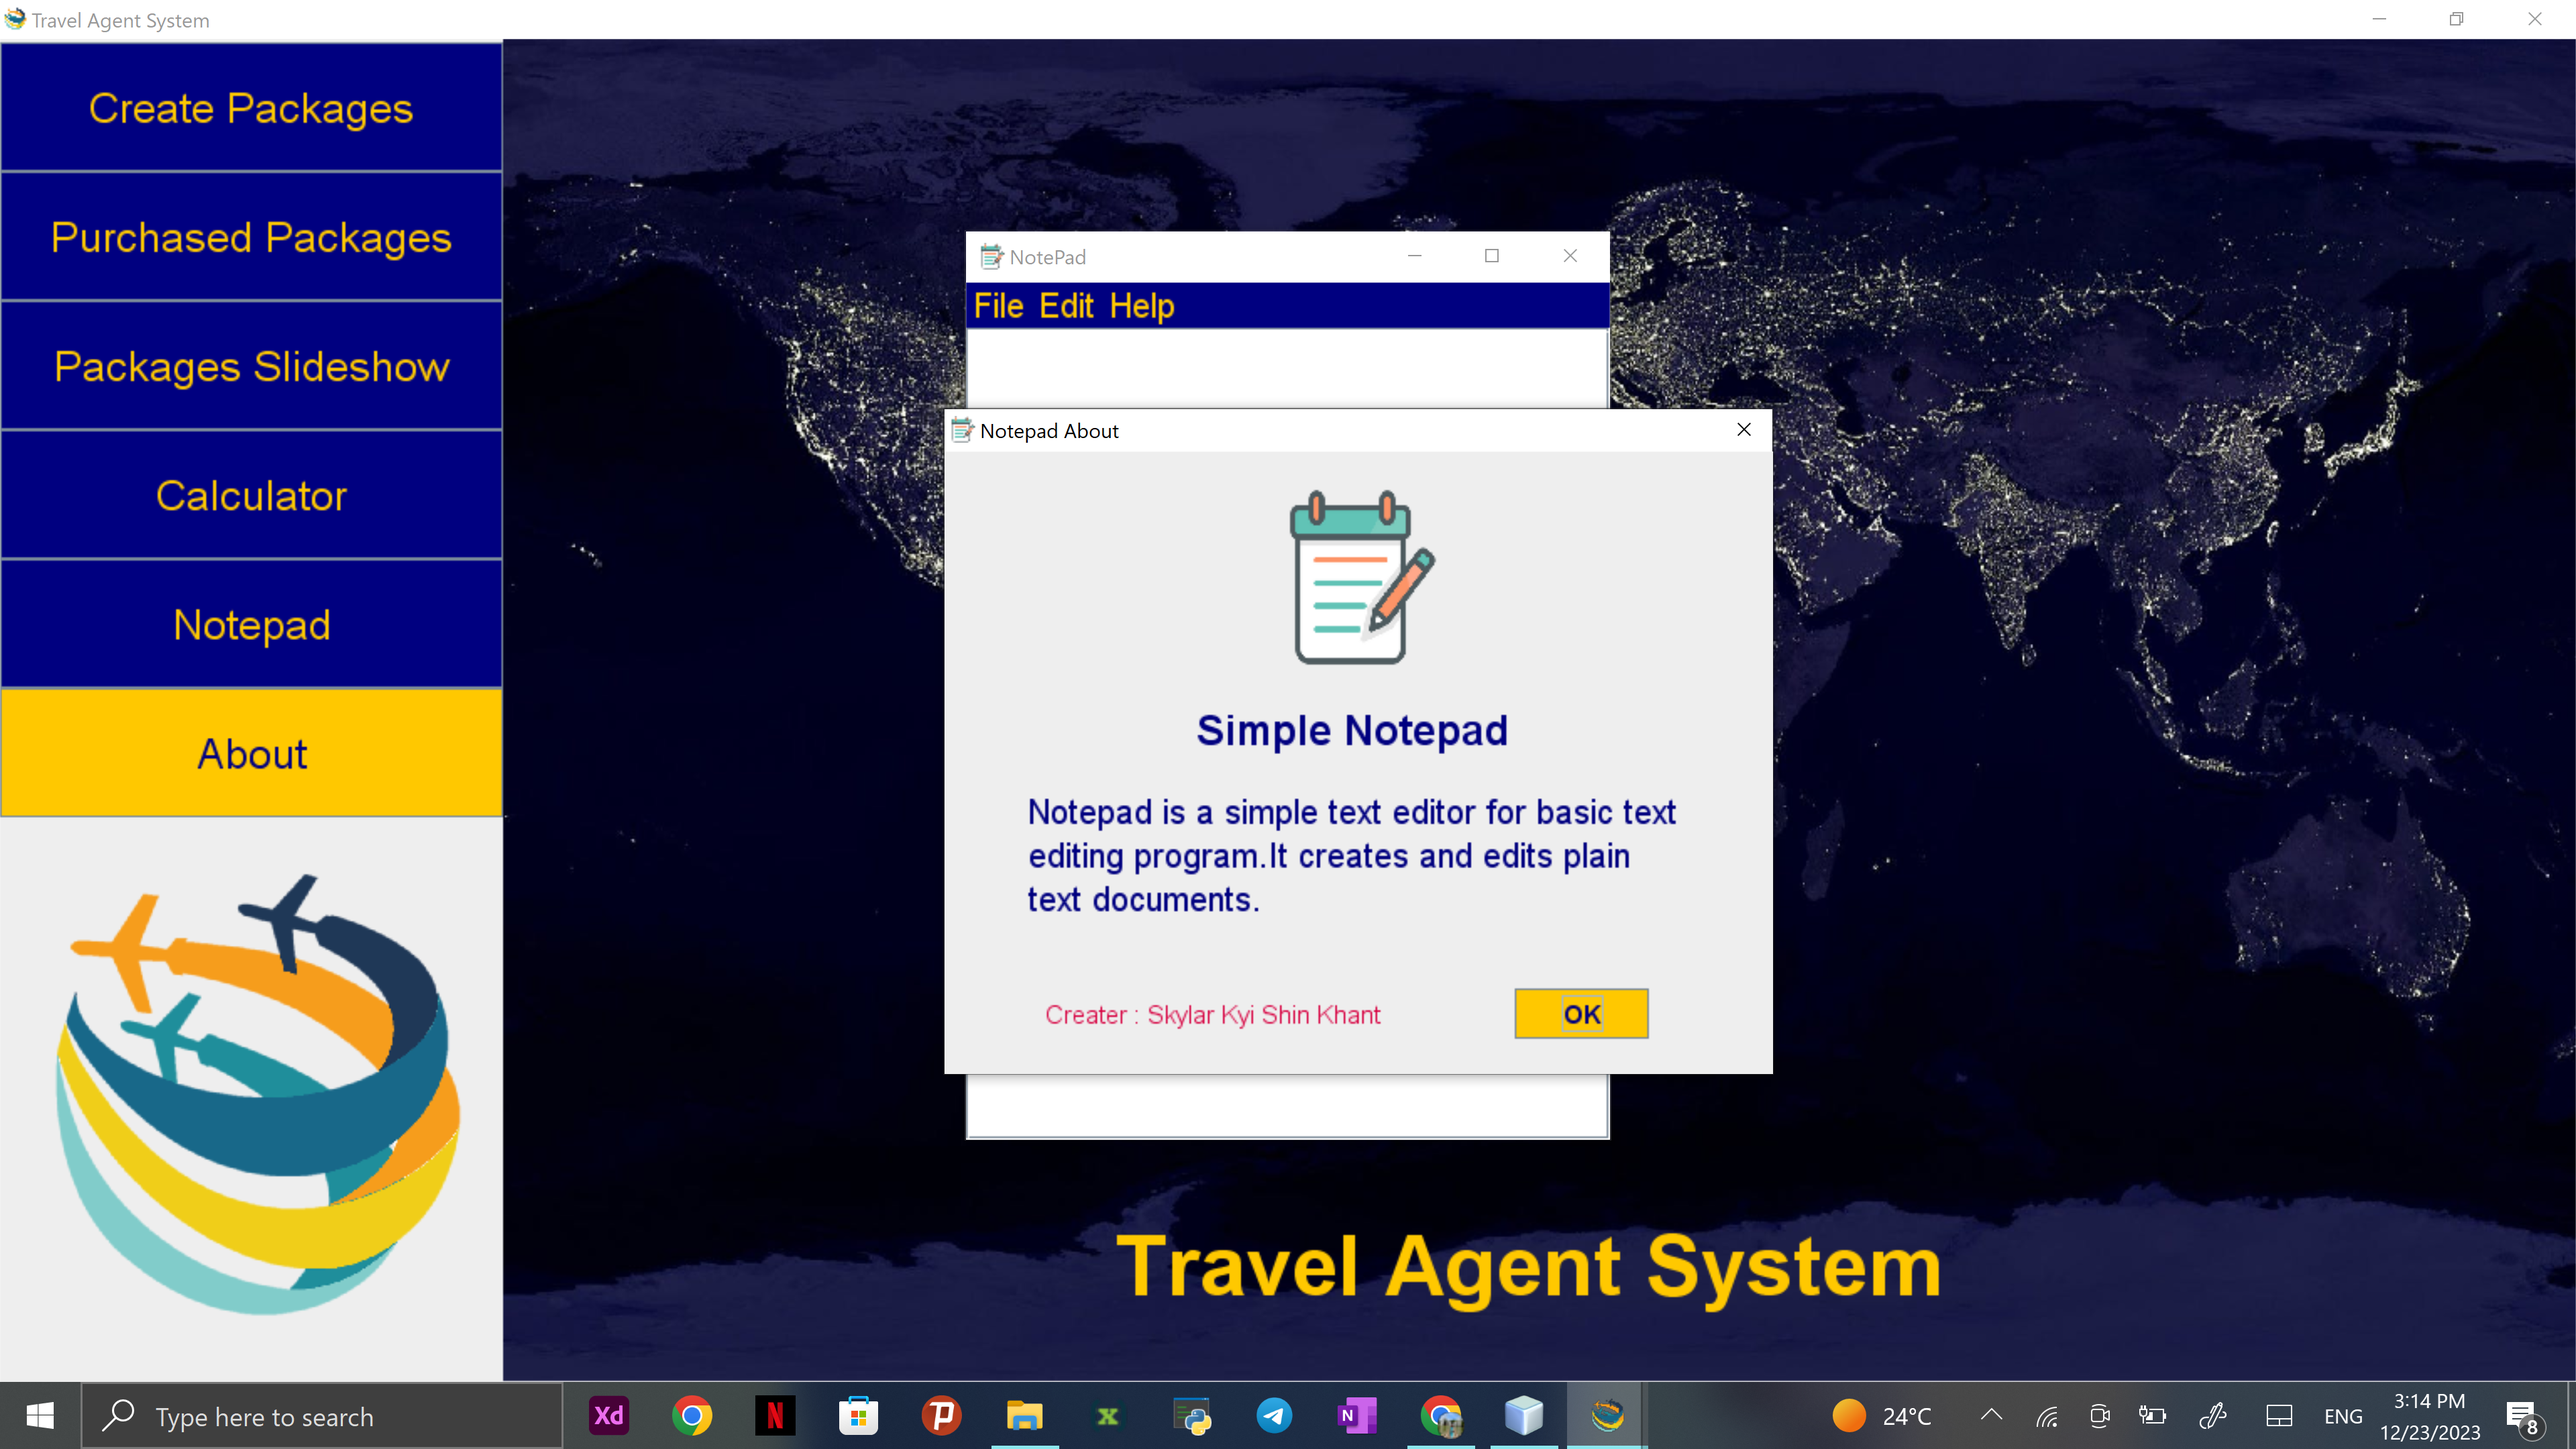
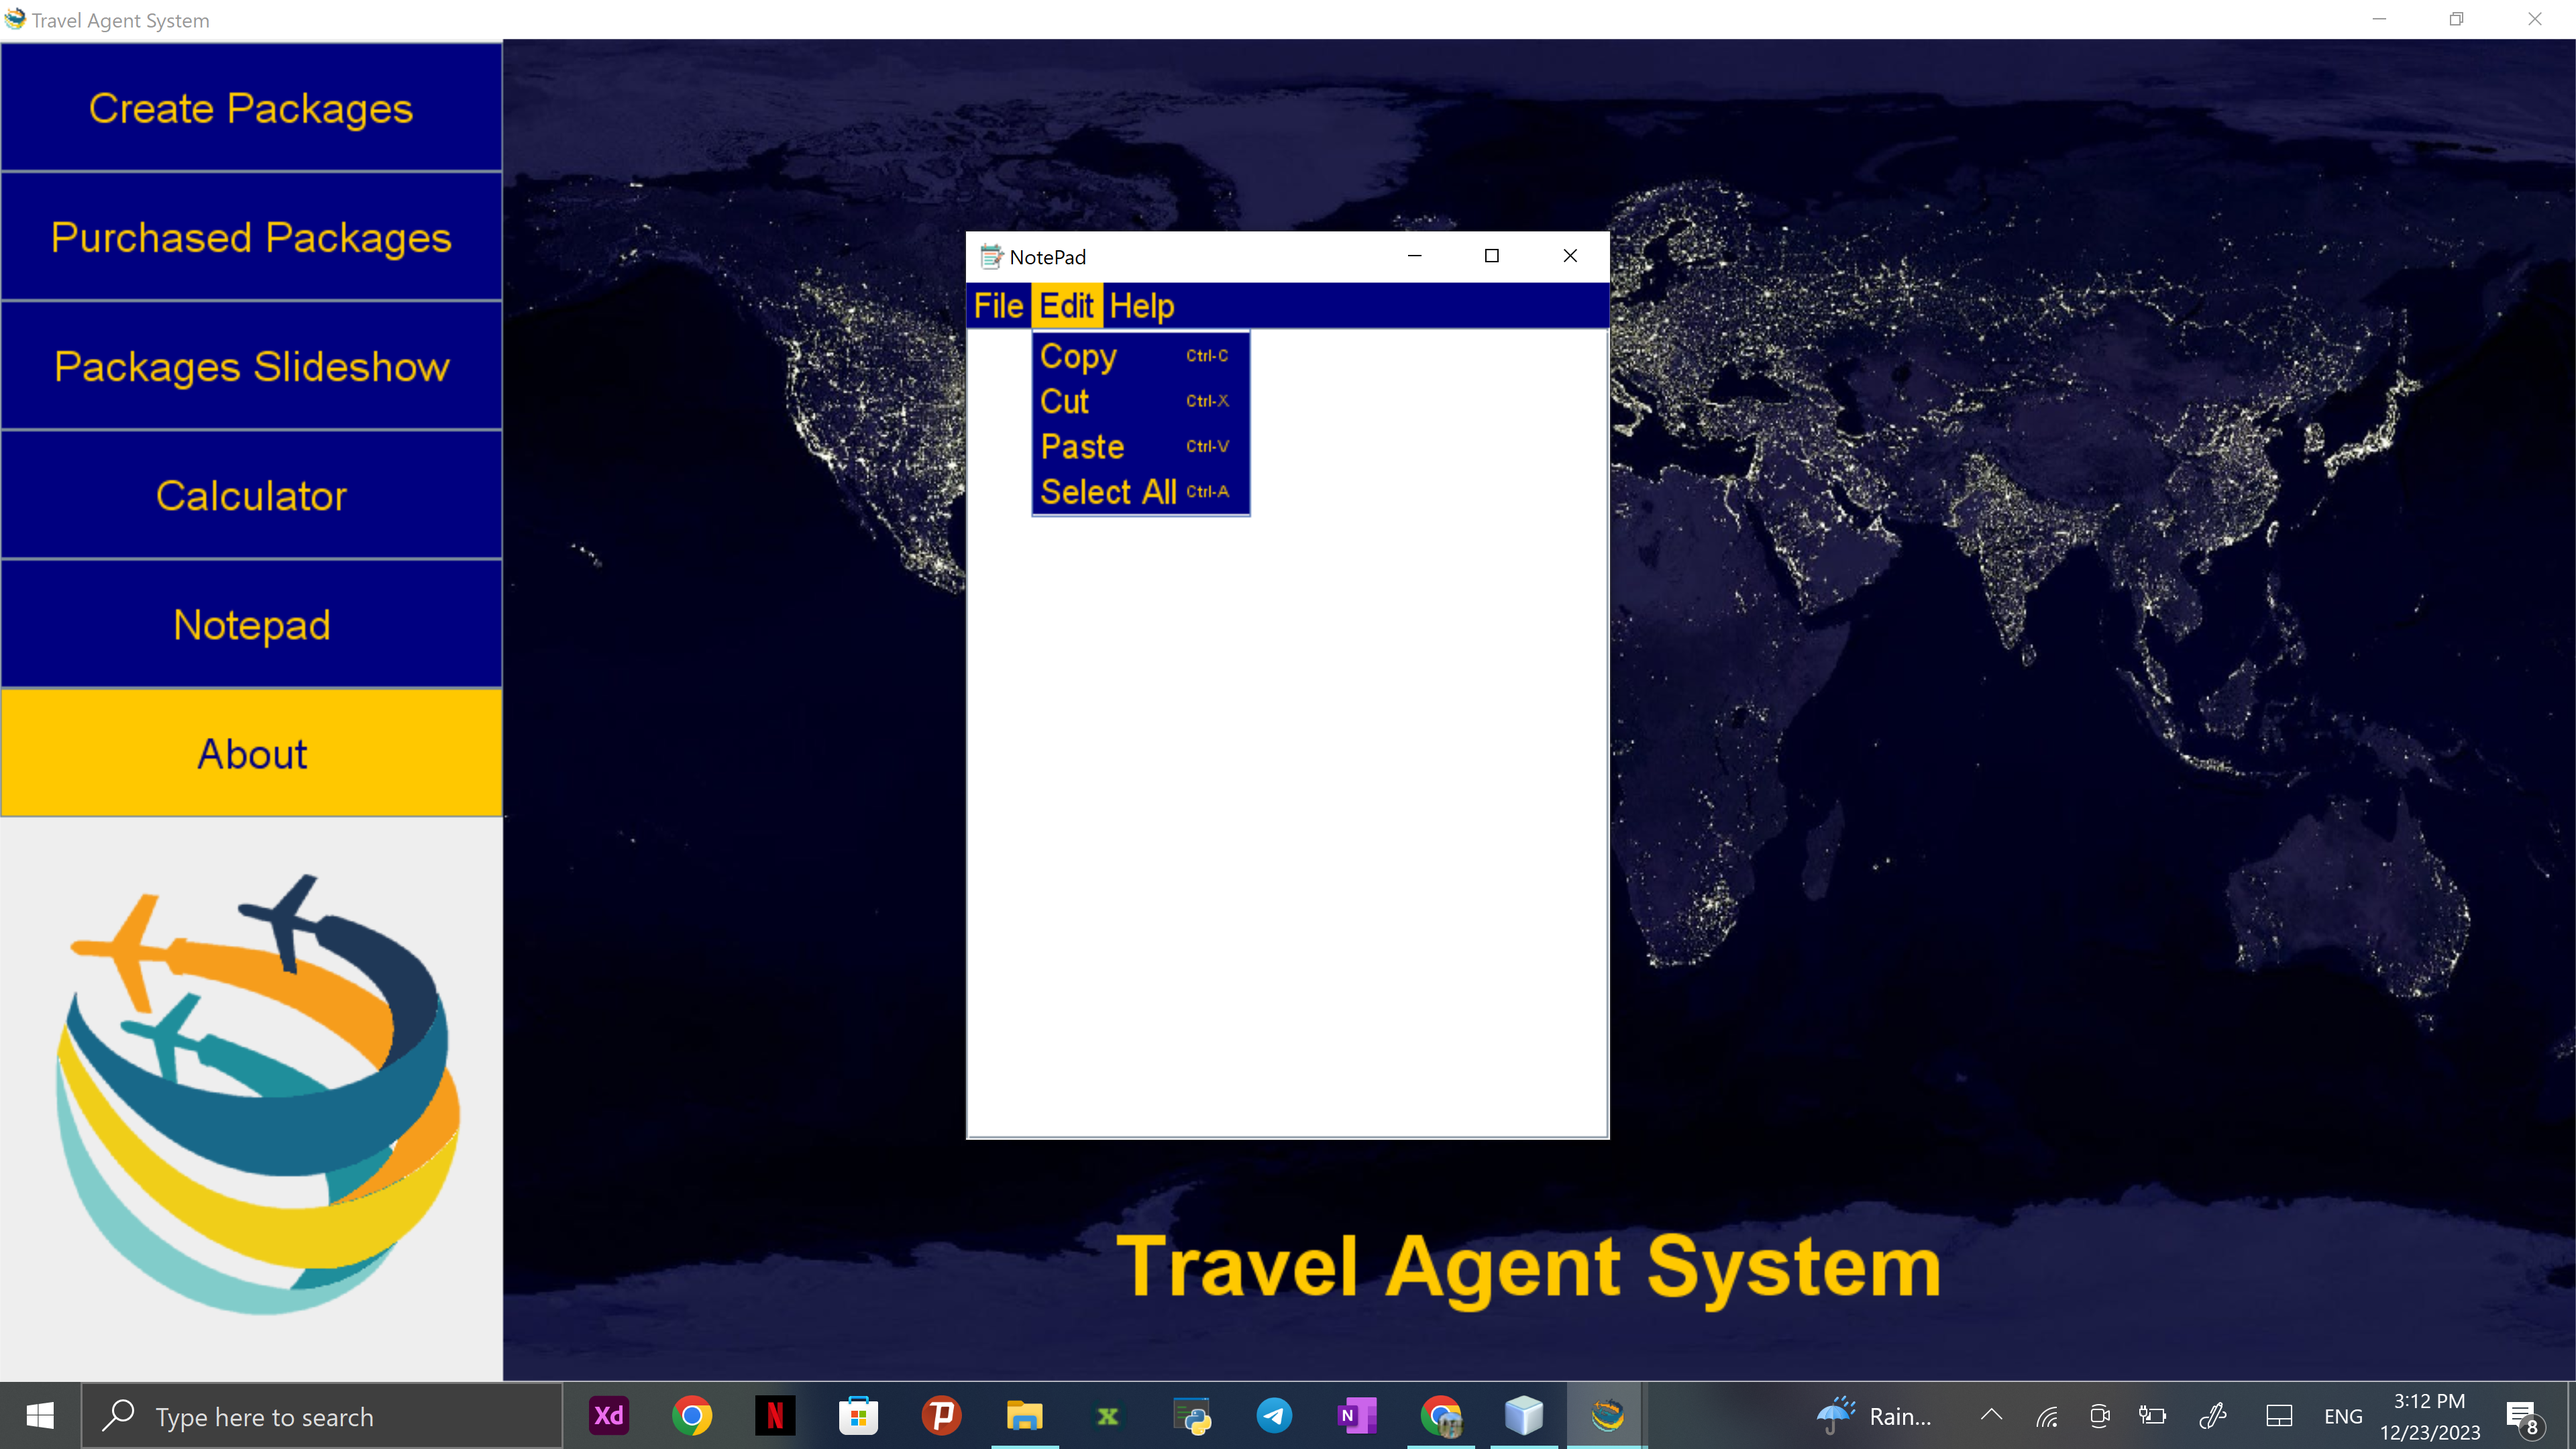
Adding screenshots files, License.txt, and Update README.md (#1)
* Delete tour-project-ss directory

* Appending more images

* Delete tour-project-ss directory

* Renaming Screenshots

* Renaming Screenshots

* Add files via upload

* Delete tour-project-ss directory

* Updating Screenshots

* Update README.md

* Update About.java

* Update README.md

Changed region(s): [[0.3438, 0.1861, 0.6875, 0.7444], [0.4688, 0.4963, 0.5938, 0.5273], [0.6875, 0.9616, 0.75, 0.9926]]

diff --git a/src/TourJava/About.java b/src/TourJava/About.java
@@ -44,7 +44,7 @@ public class About extends javax.swing.JDialog {
         img2.setBounds(20,100,150,150);
         this.add(img2);
         
-        l2=new JLabel("<html>This is a simple system for a travel agent. The agent has packages to take customers to such amazing countries as Myanmar, Japan, Brazil and French, with reasonable prices.</html>");
+        l2=new JLabel("<html>This is a simple system for a travel agent. The agent has packages to take customers to such amazing countries as Myanmar, Japan, Brazil, French, and Australia, with reasonable prices.</html>");
         l2.setFont(new Font("Trebuchet M3",Font.PLAIN,20));
         l2.setForeground(new Color(0,0,128));
         l2.setBounds(180,80,300,200);

diff --git a/README.md b/README.md
@@ -16,7 +16,96 @@ This Java project is designed for tour agents to maintain comprehensive records 
 </details>
 
 ## About The Project
+Upon initiating the project, the initial sequence involves encountering a splash screen, followed by a __loading page__, and ultimately arriving at the __entry page__.
+<table>
+  <tr>
+    <td>Loading Page</td>
+    <td>Entry Page</td>
+  </tr>
+  <tr>
+    <td><img src="https://github.com/Skylar-KyiShinKhant/Tour-Project/blob/Editing-screenshots/tour-project-ss/Screenshot-1.png" width="500"></td>
+    <td><img src="https://github.com/Skylar-KyiShinKhant/Tour-Project/blob/Editing-screenshots/tour-project-ss/Screenshot-2.png" width="500"></td>
+  </tr>
+</table>
 
+Upon pressing the ```Space``` key, you will be directed to the __LogIn__ page, offering options to access the system, navigate to the __Sign Up__ window, or proceed to the __Forgot Password__ window.
+<table>
+  <tr>
+    <td>Log In Page</td>
+    <td>Sign Up Page</td>
+    <td>Forgot Password Page</td>
+  </tr>
+  <tr>
+    <td><img src="https://github.com/Skylar-KyiShinKhant/Tour-Project/blob/Editing-screenshots/tour-project-ss/Screenshot-3.png" width="350"></td>
+    <td><img src="https://github.com/Skylar-KyiShinKhant/Tour-Project/blob/Editing-screenshots/tour-project-ss/Screenshot-4.png" width="350"></td>
+    <td><img src="https://github.com/Skylar-KyiShinKhant/Tour-Project/blob/Editing-screenshots/tour-project-ss/Screenshot-5.png" width="350"></td>
+  </tr>
+</table>
+
+Successfully logging into the system grants you access to a variety of buttons, as depicted in the image.
+<img src="https://github.com/Skylar-KyiShinKhant/Tour-Project/blob/Editing-screenshots/tour-project-ss/Screenshot-6.png">
+
+Under the __Create Packages__, you have the ability to add new tour packages, modify existing ones, remove unnecessary packages, or search for specific ones as needed. 
+<img src="https://github.com/Skylar-KyiShinKhant/Tour-Project/blob/Editing-screenshots/tour-project-ss/Screenshot-7.png">
+<table>
+  <tr>
+    <td>New Button Window</td>
+    <td>Edit Button Window</td>
+    <td>Delete Button Message</td>
+  </tr>
+  <tr>
+    <td><img src="https://github.com/Skylar-KyiShinKhant/Tour-Project/blob/Editing-screenshots/tour-project-ss/Screenshot-8.png" width="350"></td>
+    <td><img src="https://github.com/Skylar-KyiShinKhant/Tour-Project/blob/Editing-screenshots/tour-project-ss/Screenshot-9.png" width="350"></td>
+    <td><img src="https://github.com/Skylar-KyiShinKhant/Tour-Project/blob/Editing-screenshots/tour-project-ss/Screenshot-10.png" width="350"></td>
+  </tr>
+</table>
+
+Within the __Purchased Packages__ section, attention will now be directed towards the __Print__ button, a feature that was not previously showcased in the __Create Package__ section, while the remaining functionalities operate in a similar manner.
+<table>
+  <tr>
+    <td>General Tab</td>
+    <td>Page Setup Tab</td>
+    <td>Apperance Tab</td>
+  </tr>
+  <tr>
+    <td><img src="https://github.com/Skylar-KyiShinKhant/Tour-Project/blob/Editing-screenshots/tour-project-ss/Screenshot-11.png" width="350"></td>
+    <td><img src="https://github.com/Skylar-KyiShinKhant/Tour-Project/blob/Editing-screenshots/tour-project-ss/Screenshot-12.png" width="350"></td>
+    <td><img src="https://github.com/Skylar-KyiShinKhant/Tour-Project/blob/Editing-screenshots/tour-project-ss/Screenshot-13.png" width="350"></td>
+  </tr>
+</table>
+
+The __Packages Slideshow__ showcases images of destinations featured in the tour agent's itineraries, akin to patrons viewing a menu on a large TV screen in restaurants.
+
+![](https://github.com/Skylar-KyiShinKhant/Tour-Project/blob/Editing-screenshots/tour-slideshow.gif)
+
+The __Calculator__ button is configured to prompt the system to launch the default calculator from the desktop.
+<img src="https://github.com/Skylar-KyiShinKhant/Tour-Project/blob/Editing-screenshots/tour-project-ss/Screenshot-14.png">
+
+In contrast to the __Calculator__ button, I designed the entire __Notepad__ button functionality.
+<table>
+  <tr>
+    <td>File Tab</td>
+    <td>Edit Setup Tab</td>
+    <td>Help Tab</td>
+  </tr>
+  <tr>
+    <td><img src="https://github.com/Skylar-KyiShinKhant/Tour-Project/blob/Editing-screenshots/tour-project-ss/Screenshot-15.png" width="350"></td>
+    <td><img src="https://github.com/Skylar-KyiShinKhant/Tour-Project/blob/Editing-screenshots/tour-project-ss/Screenshot-16.png" width="350"></td>
+    <td><img src="https://github.com/Skylar-KyiShinKhant/Tour-Project/blob/Editing-screenshots/tour-project-ss/Screenshot-17.png" width="350"></td>
+  </tr>
+</table>
+
+The __About__ button, both within the __Notepad__ and on the main page, displays concise messages.
+<table>
+  <tr>
+    <td>Notepad About</td>
+    <td>Main About</td>
+  </tr>
+  <tr>
+    <td><img src="https://github.com/Skylar-KyiShinKhant/Tour-Project/blob/Editing-screenshots/tour-project-ss/Screenshot-18.png" width="500"></td>
+    <td><img src="https://github.com/Skylar-KyiShinKhant/Tour-Project/blob/Editing-screenshots/tour-project-ss/Screenshot-19.png" width="500"></td>
+  </tr>
+</table>
 
 ## Built with
 - Java
@@ -32,7 +121,7 @@ To run this project, it is essential to have the **NetBeans IDE** installed. Add
 1. Open up your terminal
 2. [Clone the repo in the Netbeans IDE](https://www.joe0.com/2018/02/16/how-to-cloning-github-project-into-netbeans/)
 3. Add two **.jar** files into **Libraries** folder
-4. Change ```DriverManager.getConnection()``` according to your MySQL login details
+4. Change ```DriverManager.getConnection()``` according to your **MySQL** login details
 5. Run **Main.java**
 
 ## Contributing
